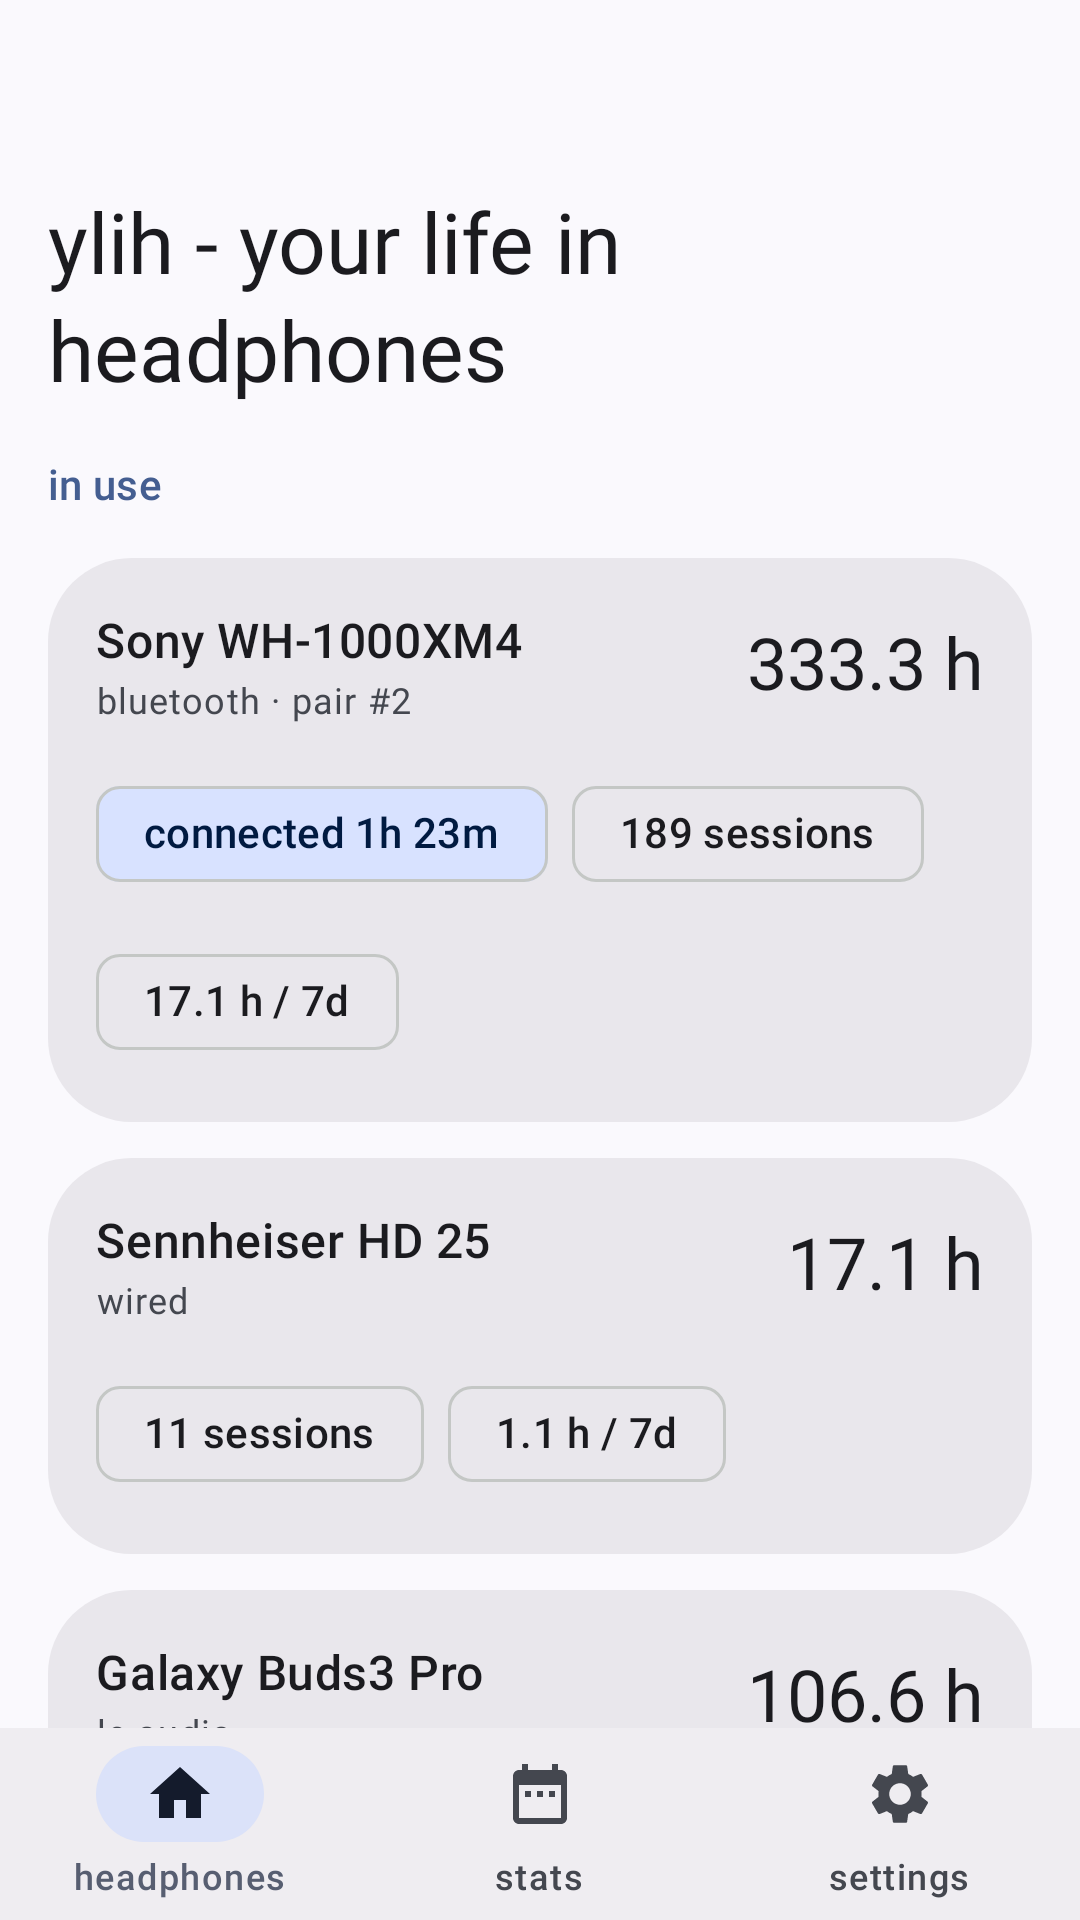
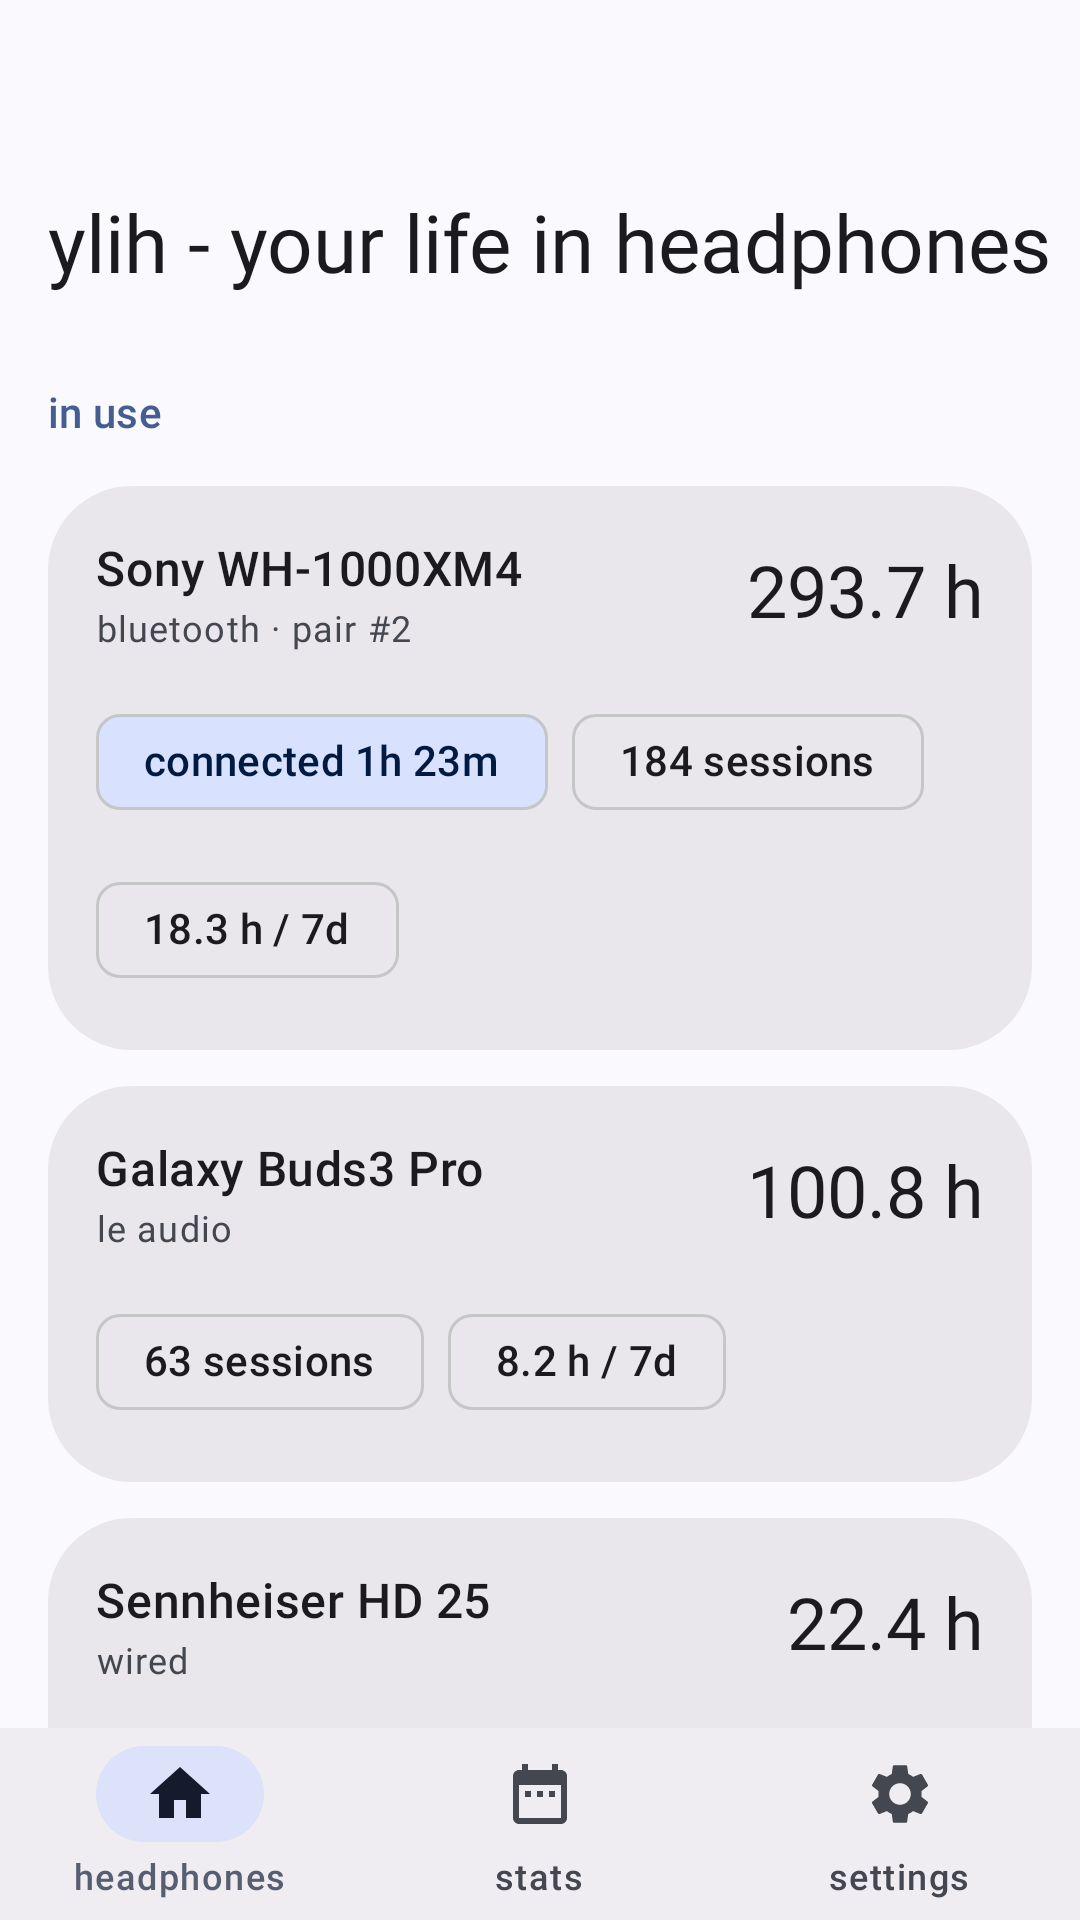
Fit the app bar title on one line
The full name wrapped onto a second line on every one of the three tabs,
which read as a two-row title bar and pushed the list down far enough to
clip the third pair's card off the bottom of the store screenshots.

Shrinking it is what the flexible bar cannot do on its own. "ylih - your
life in headphones" is 30 characters against the 328dp a 360dp screen
leaves, and no language is short enough for that to stop mattering — the
longest translation, Cebuano, is 40 — so the title auto-sizes instead.
The ceiling is bound to whatever style the bar provided rather than a
number of our own: the flexible bar interpolates that as it collapses, so
binding to it keeps the collapse animation driving the size and leaves
this only ever taking away. The 14sp floor is a backstop for a language
nobody here reads, not a size anything is expected to reach; English and
Polish, the longest of the languages the listing covers, both settle near
the ceiling and are barely smaller than they were on two lines.

The listing screenshots are re-recorded, and the row this gives back is
visible in them: the third pair is no longer cut off mid-word.

Claude-Session: https://claude.ai/code/session_01QuxFDA6ZDeVkbKLeR9QjHF

diff --git a/app/src/main/java/it/eldavo/ylih/ui/YlihNavHost.kt b/app/src/main/java/it/eldavo/ylih/ui/YlihNavHost.kt
@@ -12,12 +12,14 @@ import androidx.compose.foundation.lazy.rememberLazyListState
 import androidx.compose.foundation.pager.HorizontalPager
 import androidx.compose.foundation.pager.rememberPagerState
 import androidx.compose.foundation.rememberScrollState
+import androidx.compose.foundation.text.TextAutoSize
 import androidx.compose.material.icons.Icons
 import androidx.compose.material.icons.filled.DateRange
 import androidx.compose.material.icons.filled.Home
 import androidx.compose.material.icons.filled.Settings
 import androidx.compose.material3.ExperimentalMaterial3ExpressiveApi
 import androidx.compose.material3.Icon
+import androidx.compose.material3.LocalTextStyle
 import androidx.compose.material3.MediumFlexibleTopAppBar
 import androidx.compose.material3.Scaffold
 import androidx.compose.material3.ShortNavigationBar
@@ -41,6 +43,7 @@ import androidx.compose.ui.graphics.vector.ImageVector
 import androidx.compose.ui.input.nestedscroll.nestedScroll
 import androidx.compose.ui.platform.LocalContext
 import androidx.compose.ui.res.stringResource
+import androidx.compose.ui.unit.sp
 import androidx.lifecycle.compose.collectAsStateWithLifecycle
 import androidx.lifecycle.viewmodel.compose.viewModel
 import it.eldavo.ylih.R
@@ -135,8 +138,8 @@ fun YlihNavHost(
         }
     }
 
-    // The full name needs two lines, which is a lot of screen to give up permanently. Collapsing
-    // it on scroll is what the flexible bar is for: branded at rest, out of the way in use.
+    // The full name is a lot of screen to give up permanently even on one line. Collapsing it on
+    // scroll is what the flexible bar is for: branded at rest, out of the way in use.
     val allowCollapse = remember { mutableStateOf(true) }
     val scrollBehavior = TopAppBarDefaults.exitUntilCollapsedScrollBehavior(
         canScroll = { allowCollapse.value },
@@ -179,8 +182,7 @@ fun YlihNavHost(
         snackbarHost = { SnackbarHost(snackbarHostState) },
         topBar = {
             // Pair detail brings its own app bar with a back arrow, so the app-level one is only
-            // for the three tabs. The flexible medium bar is what lets the full name wrap onto a
-            // second line instead of being ellipsised down to "ylih - your life in…".
+            // for the three tabs.
             //
             // Fading rather than swapping it: the route flips the moment navigate() is called, so
             // dropping the bar on `currentRoute` alone made it vanish a beat before the screen it
@@ -198,7 +200,24 @@ fun YlihNavHost(
                     title = {
                         Text(
                             text = stringResource(R.string.app_title),
-                            maxLines = 2,
+                            maxLines = 1,
+                            // The name fits one line at the size the bar would give it in no
+                            // language — 30 characters in English, 40 in Cebuano — so it is
+                            // shrunk until it does, rather than wrapped onto a second line or
+                            // ellipsised to "ylih - your life in…".
+                            //
+                            // The ceiling is whatever style the bar provided rather than a
+                            // number of our own: the flexible bar interpolates that as it
+                            // collapses, so binding to it keeps the collapse animation driving
+                            // the size and leaves this only ever taking away. 14sp is a floor
+                            // and not a size anything is expected to reach — English and
+                            // Polish, the longest of the languages the store screenshots cover,
+                            // both settle near the ceiling — so that a language nobody here
+                            // reads gets a smaller title instead of a clipped one.
+                            autoSize = TextAutoSize.StepBased(
+                                minFontSize = 14.sp,
+                                maxFontSize = LocalTextStyle.current.fontSize,
+                            ),
                         )
                     },
                     scrollBehavior = scrollBehavior,
